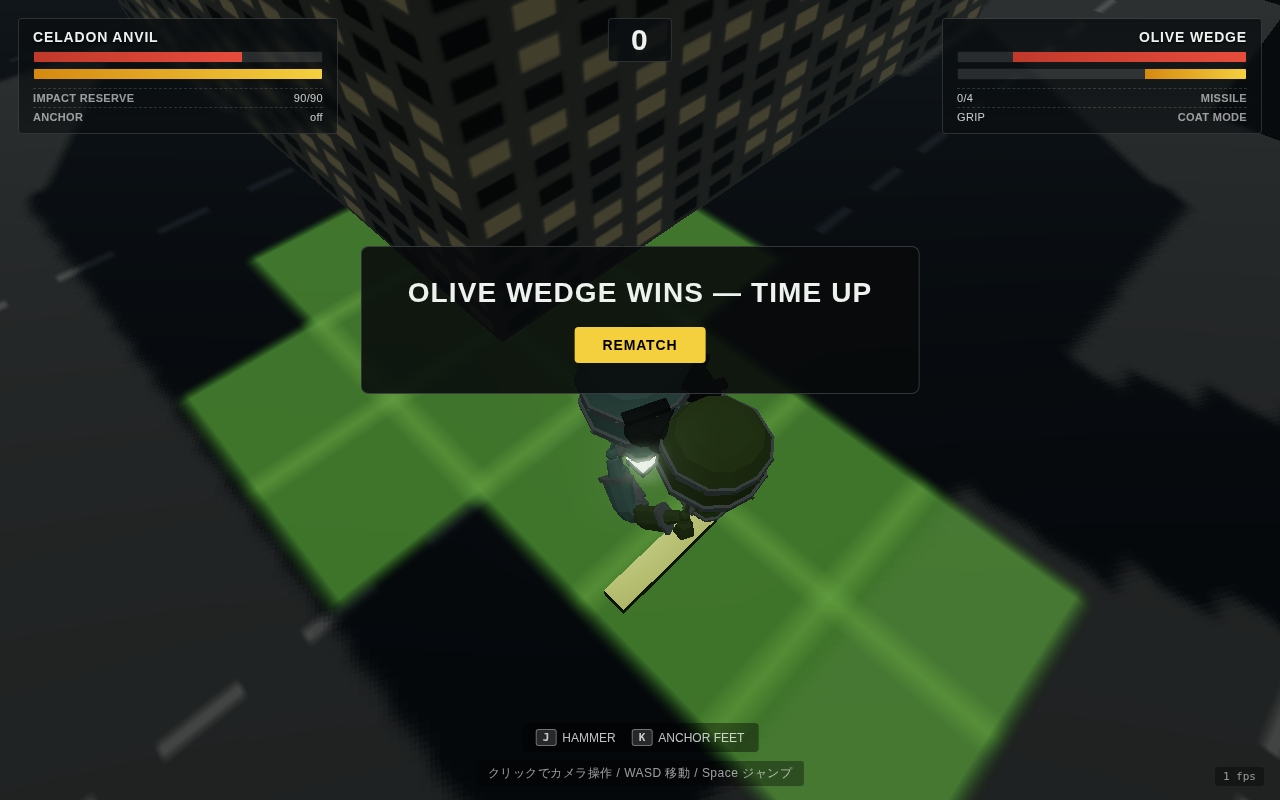
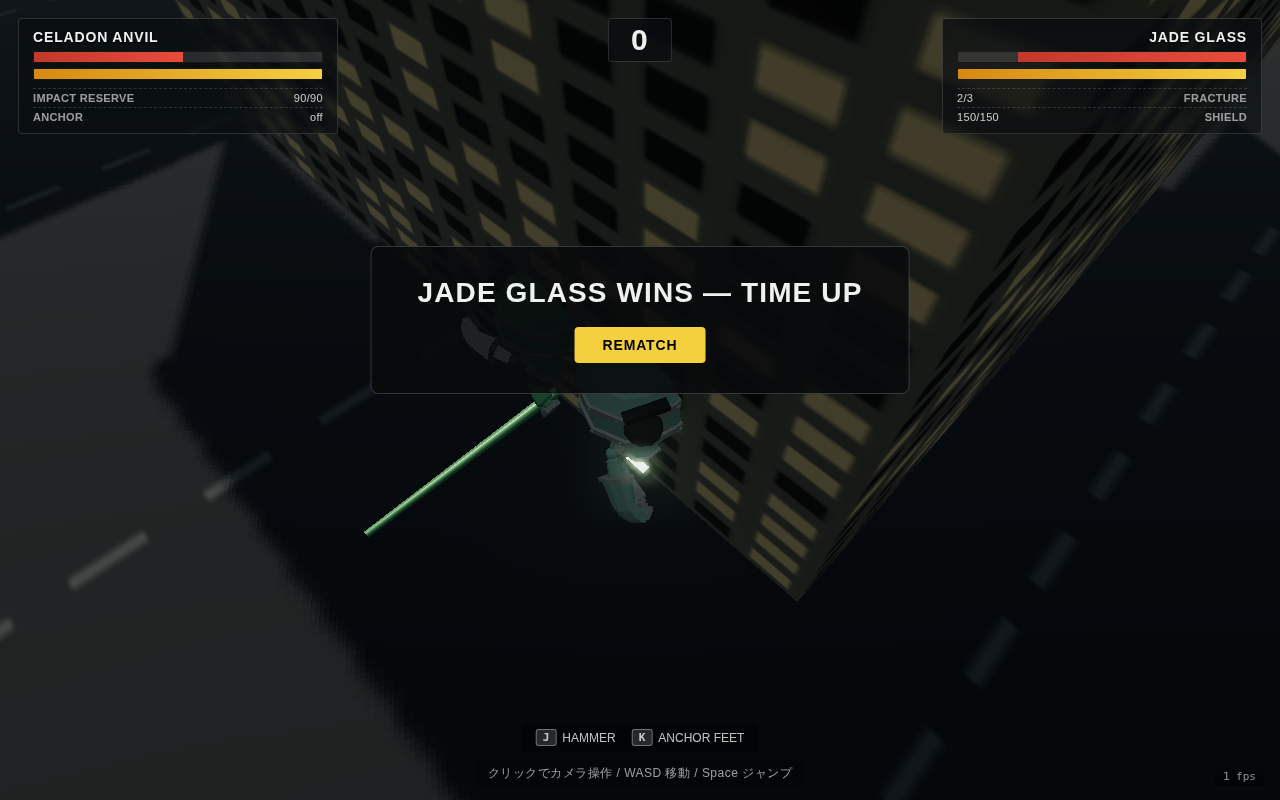
Give each weapon its own attack motion instead of a generic swing
User feedback: "そもそも剣で戦うものではない" — correct per canon (verified
via web search: Accel World duels are not sword fights; avatars fight
barehanded, by piston-driven rams, by flight+kicks, etc., and none of
CELADON/JADE/OLIVE canonically carry a blade). The generic single
"swing whatever's in your hand" presentation was flattening that —
every weapon read the same regardless of what it actually was.

- OLIVE WEDGE's TWIN ROLLER gets its own visual (a short forearm-mounted
  drum, not a held stick) and a "press" motion: short forward push +
  a spin, no arc.
- JADE GLASS's GLASS LANCE gets a "thrust": extends straight out and
  retracts, never swings sideways.
- CELADON ANVIL's PILE HAMMER keeps a wide diagonal "swing" arc, since
  a heavy blunt smash is the one of the three that actually resembles
  an arcing strike (still visibly a hammer, not a blade).

Each avatar's melee effect JSON now declares its own attackMotion;
main.js's updateSwingAnimation reads it and animates the weapon mesh
relative to its own rest pose (stored at attach time) rather than
overwriting the bone-driven Punch clip's transform, so it layers
instead of fighting the skeletal animation.

Claude-Session: https://claude.ai/code/session_01Q7sHi64gAzTf1psGGWMG9Q

diff --git a/duel-game/js/main.js b/duel-game/js/main.js
@@ -362,11 +362,39 @@ function stepMovement(combatant, moveVec, wantsJump, dt) {
 
 function updateSwingAnimation(combatant, dt) {
   combatant.attackWindup = Math.max(0, combatant.attackWindup - dt * 2.4);
-  // the modeled body swings via its own 'Punch' skeletal clip (triggered in
-  // primitives.meleeAttack) — this manual socket-rotation hack is only for
-  // the primitive-box fallback body, which has no skeleton to animate it.
-  if (!combatant.mixer && combatant.weaponSocket) {
-    combatant.weaponSocket.rotation.x = -combatant.attackWindup * 1.25;
+  const t = combatant.attackWindup;
+
+  if (!combatant.mixer) {
+    // primitive-box fallback body has no skeleton to carry a Punch clip —
+    // this hack is the entire swing for that body type.
+    if (combatant.weaponSocket) combatant.weaponSocket.rotation.x = -t * 1.25;
+    return;
+  }
+
+  // Modeled body: the base 'Punch' clip moves the arm, but a lance thrusting
+  // and a hammer swinging and a roller pressing forward need to look
+  // different from each other, or every avatar just reads as "swinging a
+  // sword" regardless of what it's actually holding (Accel World's duels
+  // are not sword fights — see js/avatars/*.json's per-weapon
+  // attackMotion). This animates the weapon mesh itself, layered on top of
+  // whatever the hand bone is doing, using its rest pose as the baseline
+  // so it never fights or overwrites the bone animation.
+  const mesh = combatant.weaponMesh;
+  if (!mesh || !combatant.weaponBaseRotation) return;
+  const arc = Math.sin(t * Math.PI); // 0 -> 1 -> 0 across the attack
+  const base = combatant.weaponBaseRotation;
+  const baseZ = combatant.weaponBaseZ ?? 0;
+
+  if (combatant.attackMotion === 'thrust') {
+    mesh.position.z = baseZ + arc * 0.9; // extends straight out, no arc
+    mesh.rotation.set(base.x - arc * 0.1, base.y, base.z);
+  } else if (combatant.attackMotion === 'press') {
+    mesh.position.z = baseZ + arc * 0.4; // short forward press, not a swing
+    combatant.rollerSpin = (combatant.rollerSpin ?? 0) + dt * arc * 24;
+    mesh.rotation.set(base.x, base.y, base.z + combatant.rollerSpin); // grinding roll
+  } else {
+    mesh.position.z = baseZ;
+    mesh.rotation.set(base.x - arc * 1.2, base.y, base.z + arc * 0.4); // wide overhead-diagonal arc
   }
 }
 

diff --git a/duel-game/js/engine/avatarRuntime.js b/duel-game/js/engine/avatarRuntime.js
@@ -60,22 +60,36 @@ function applyPassiveEffect(combatant, entry, effect) {
   }
 }
 
+// Accel World duels are not sword fights — canon avatars fight barehanded,
+// by flight, by piston-driven rams, etc., and none of these three carry a
+// blade. The shape AND the swing motion (see attackMotion / main.js
+// updateSwingAnimation) both need to say "hammer" / "lance" / "roller",
+// not just differ by a texture — a lance that swings like a sword still
+// reads as a sword.
 function attachWeaponVisual(combatant, entry, effect) {
-  const geo = effect.weaponShape === 'lance'
-    ? new THREE.CylinderGeometry(0.05, 0.09, effect.reach * 0.95, 8)
-    : new THREE.BoxGeometry(0.32, 0.32, effect.reach * 0.8);
   const mat = new THREE.MeshStandardMaterial({ color: combatant.color.clone().multiplyScalar(1.3), roughness: 0.4, metalness: 0.5 });
-  const mesh = new THREE.Mesh(geo, mat);
-  mesh.castShadow = true;
+  let mesh;
   if (effect.weaponShape === 'lance') {
+    mesh = new THREE.Mesh(new THREE.CylinderGeometry(0.05, 0.09, effect.reach * 0.95, 8), mat);
     mesh.rotation.x = Math.PI / 2;
     mesh.position.z = effect.reach * 0.45;
+  } else if (effect.weaponShape === 'roller') {
+    // OLIVE WEDGE's TWIN ROLLER is a forearm-mounted drum, not a held
+    // stick — short, thick, and close to the hand rather than out at
+    // lance/hammer reach.
+    mesh = new THREE.Mesh(new THREE.CylinderGeometry(0.19, 0.19, 0.55, 14), mat);
+    mesh.rotation.z = Math.PI / 2;
+    mesh.position.z = effect.reach * 0.2;
   } else {
+    mesh = new THREE.Mesh(new THREE.BoxGeometry(0.32, 0.32, effect.reach * 0.8), mat);
     mesh.position.z = effect.reach * 0.35;
   }
+  mesh.castShadow = true;
   combatant.weaponSocket.add(mesh);
   combatant.weaponMesh = mesh;
   combatant.weaponBaseZ = mesh.position.z;
+  combatant.weaponBaseRotation = mesh.rotation.clone();
+  combatant.attackMotion = effect.attackMotion ?? 'swing';
 }
 
 export function buildCombatant(avatarData, level, scene, bodyTemplate) {
